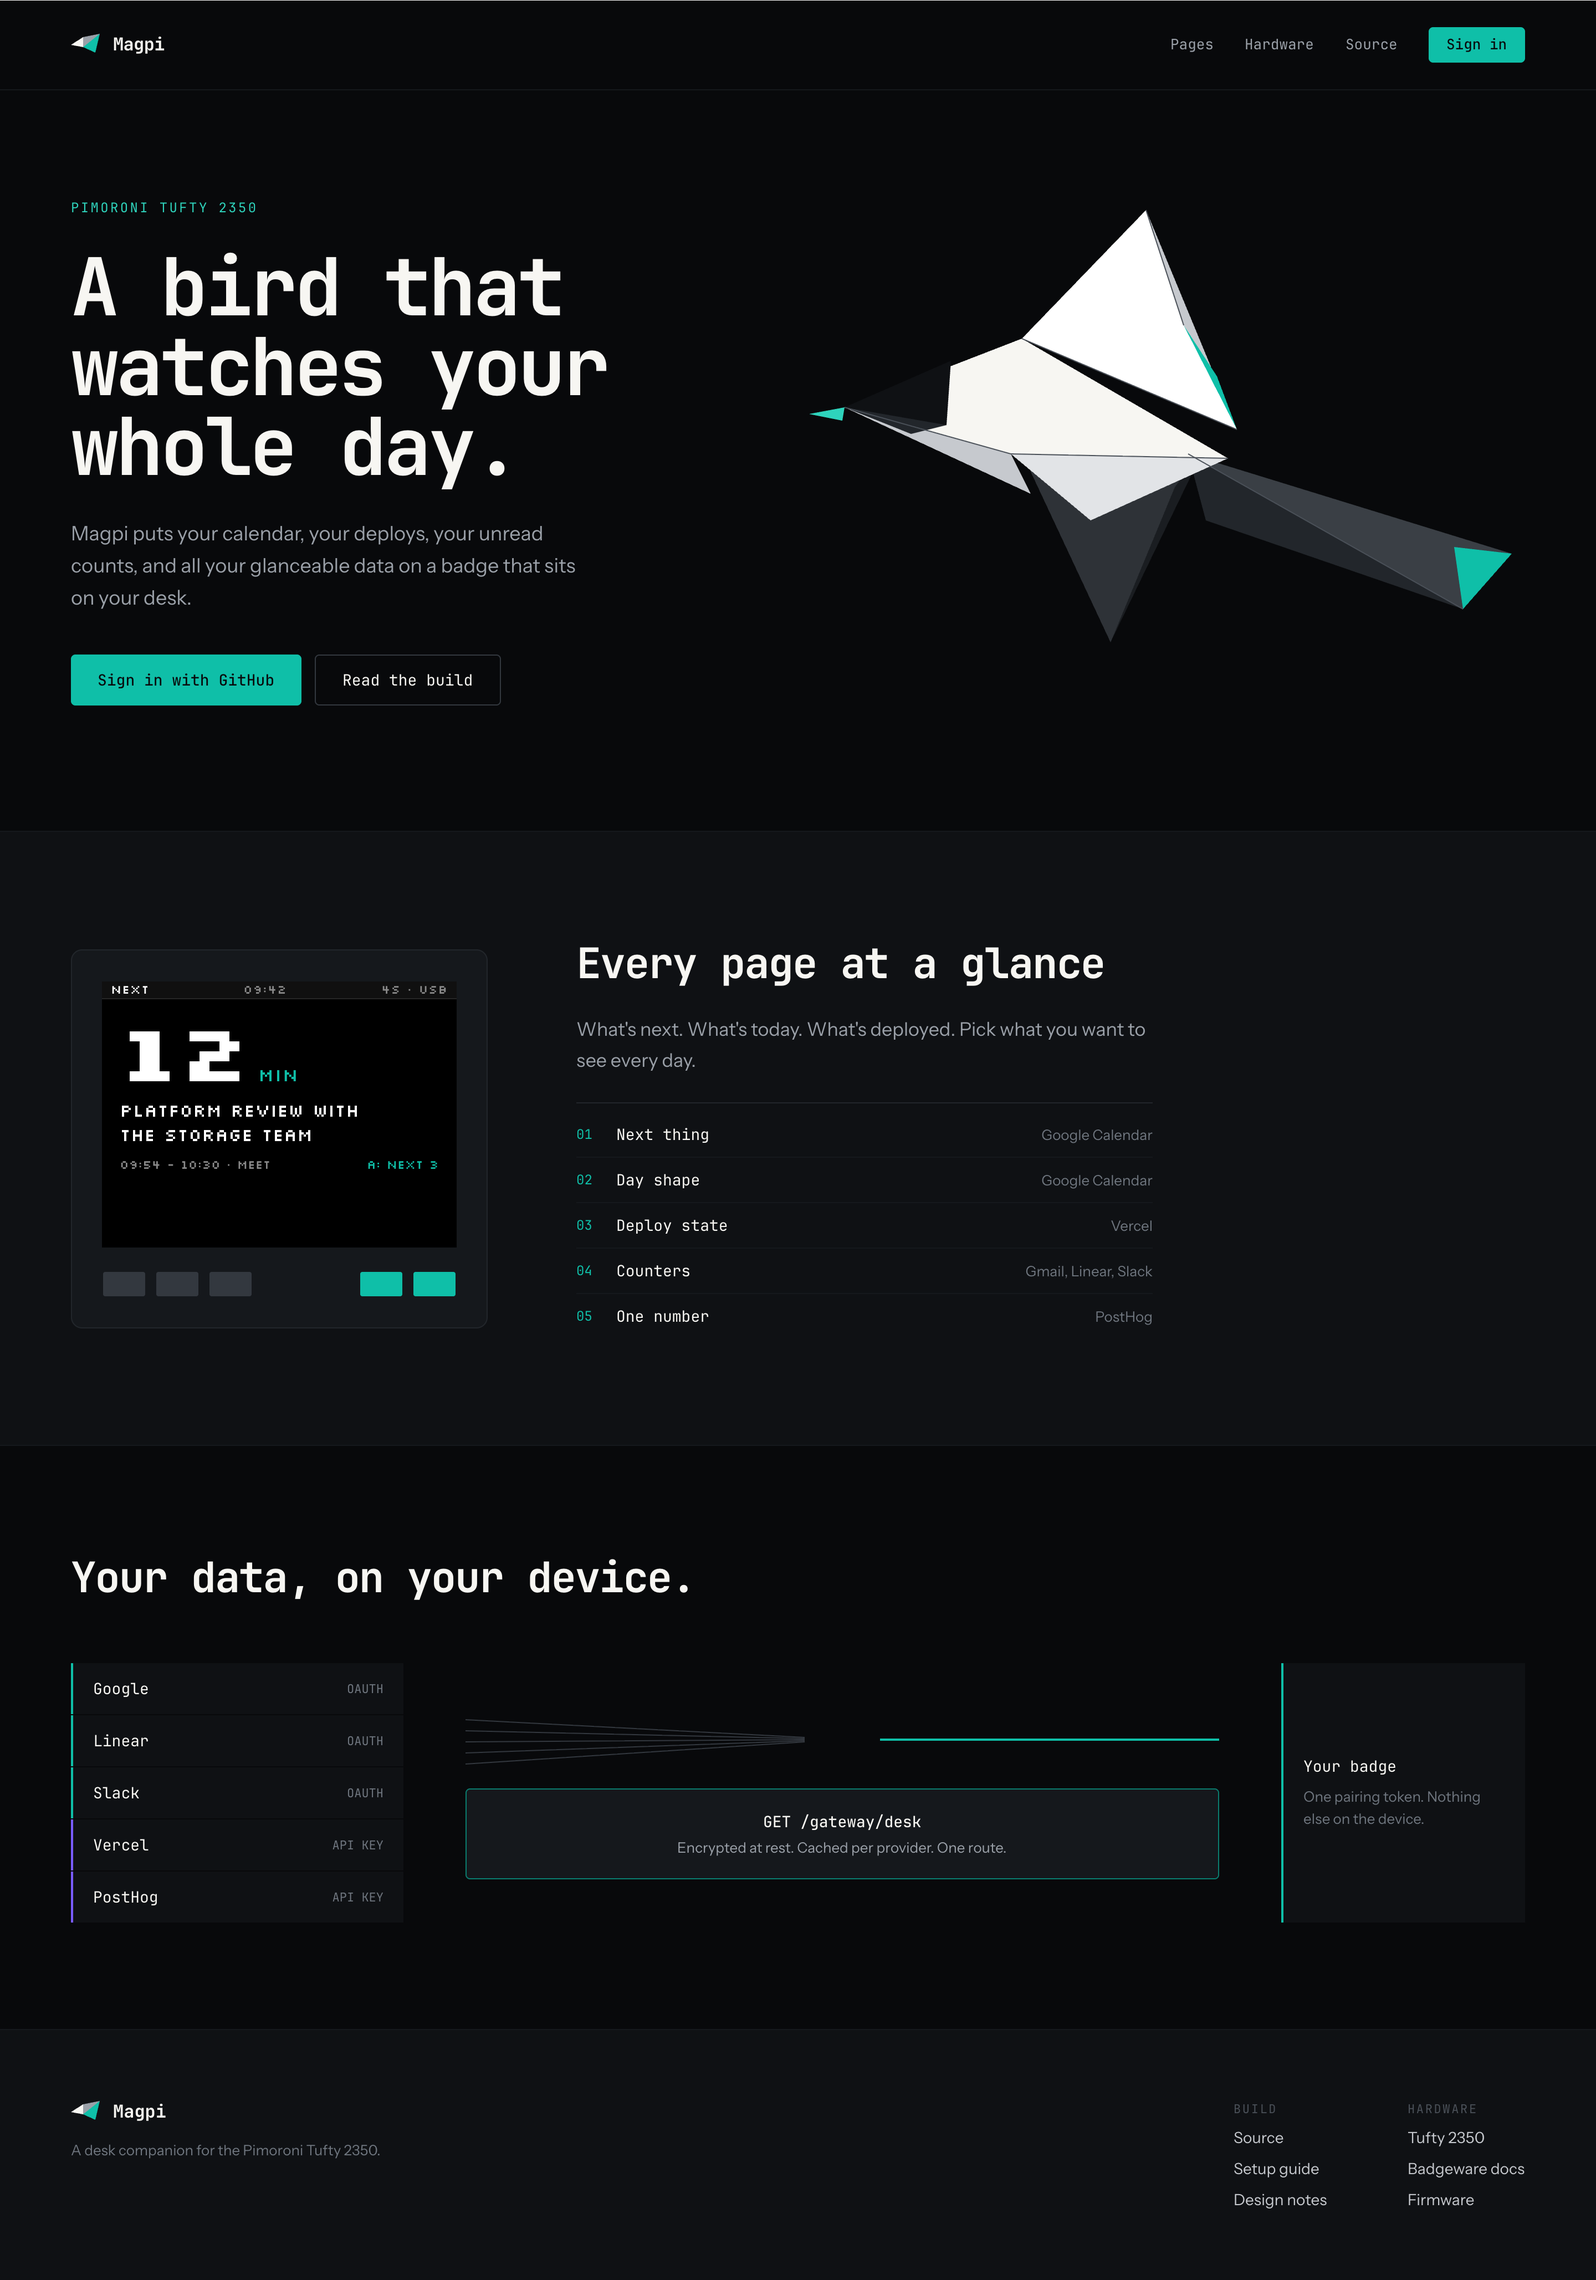
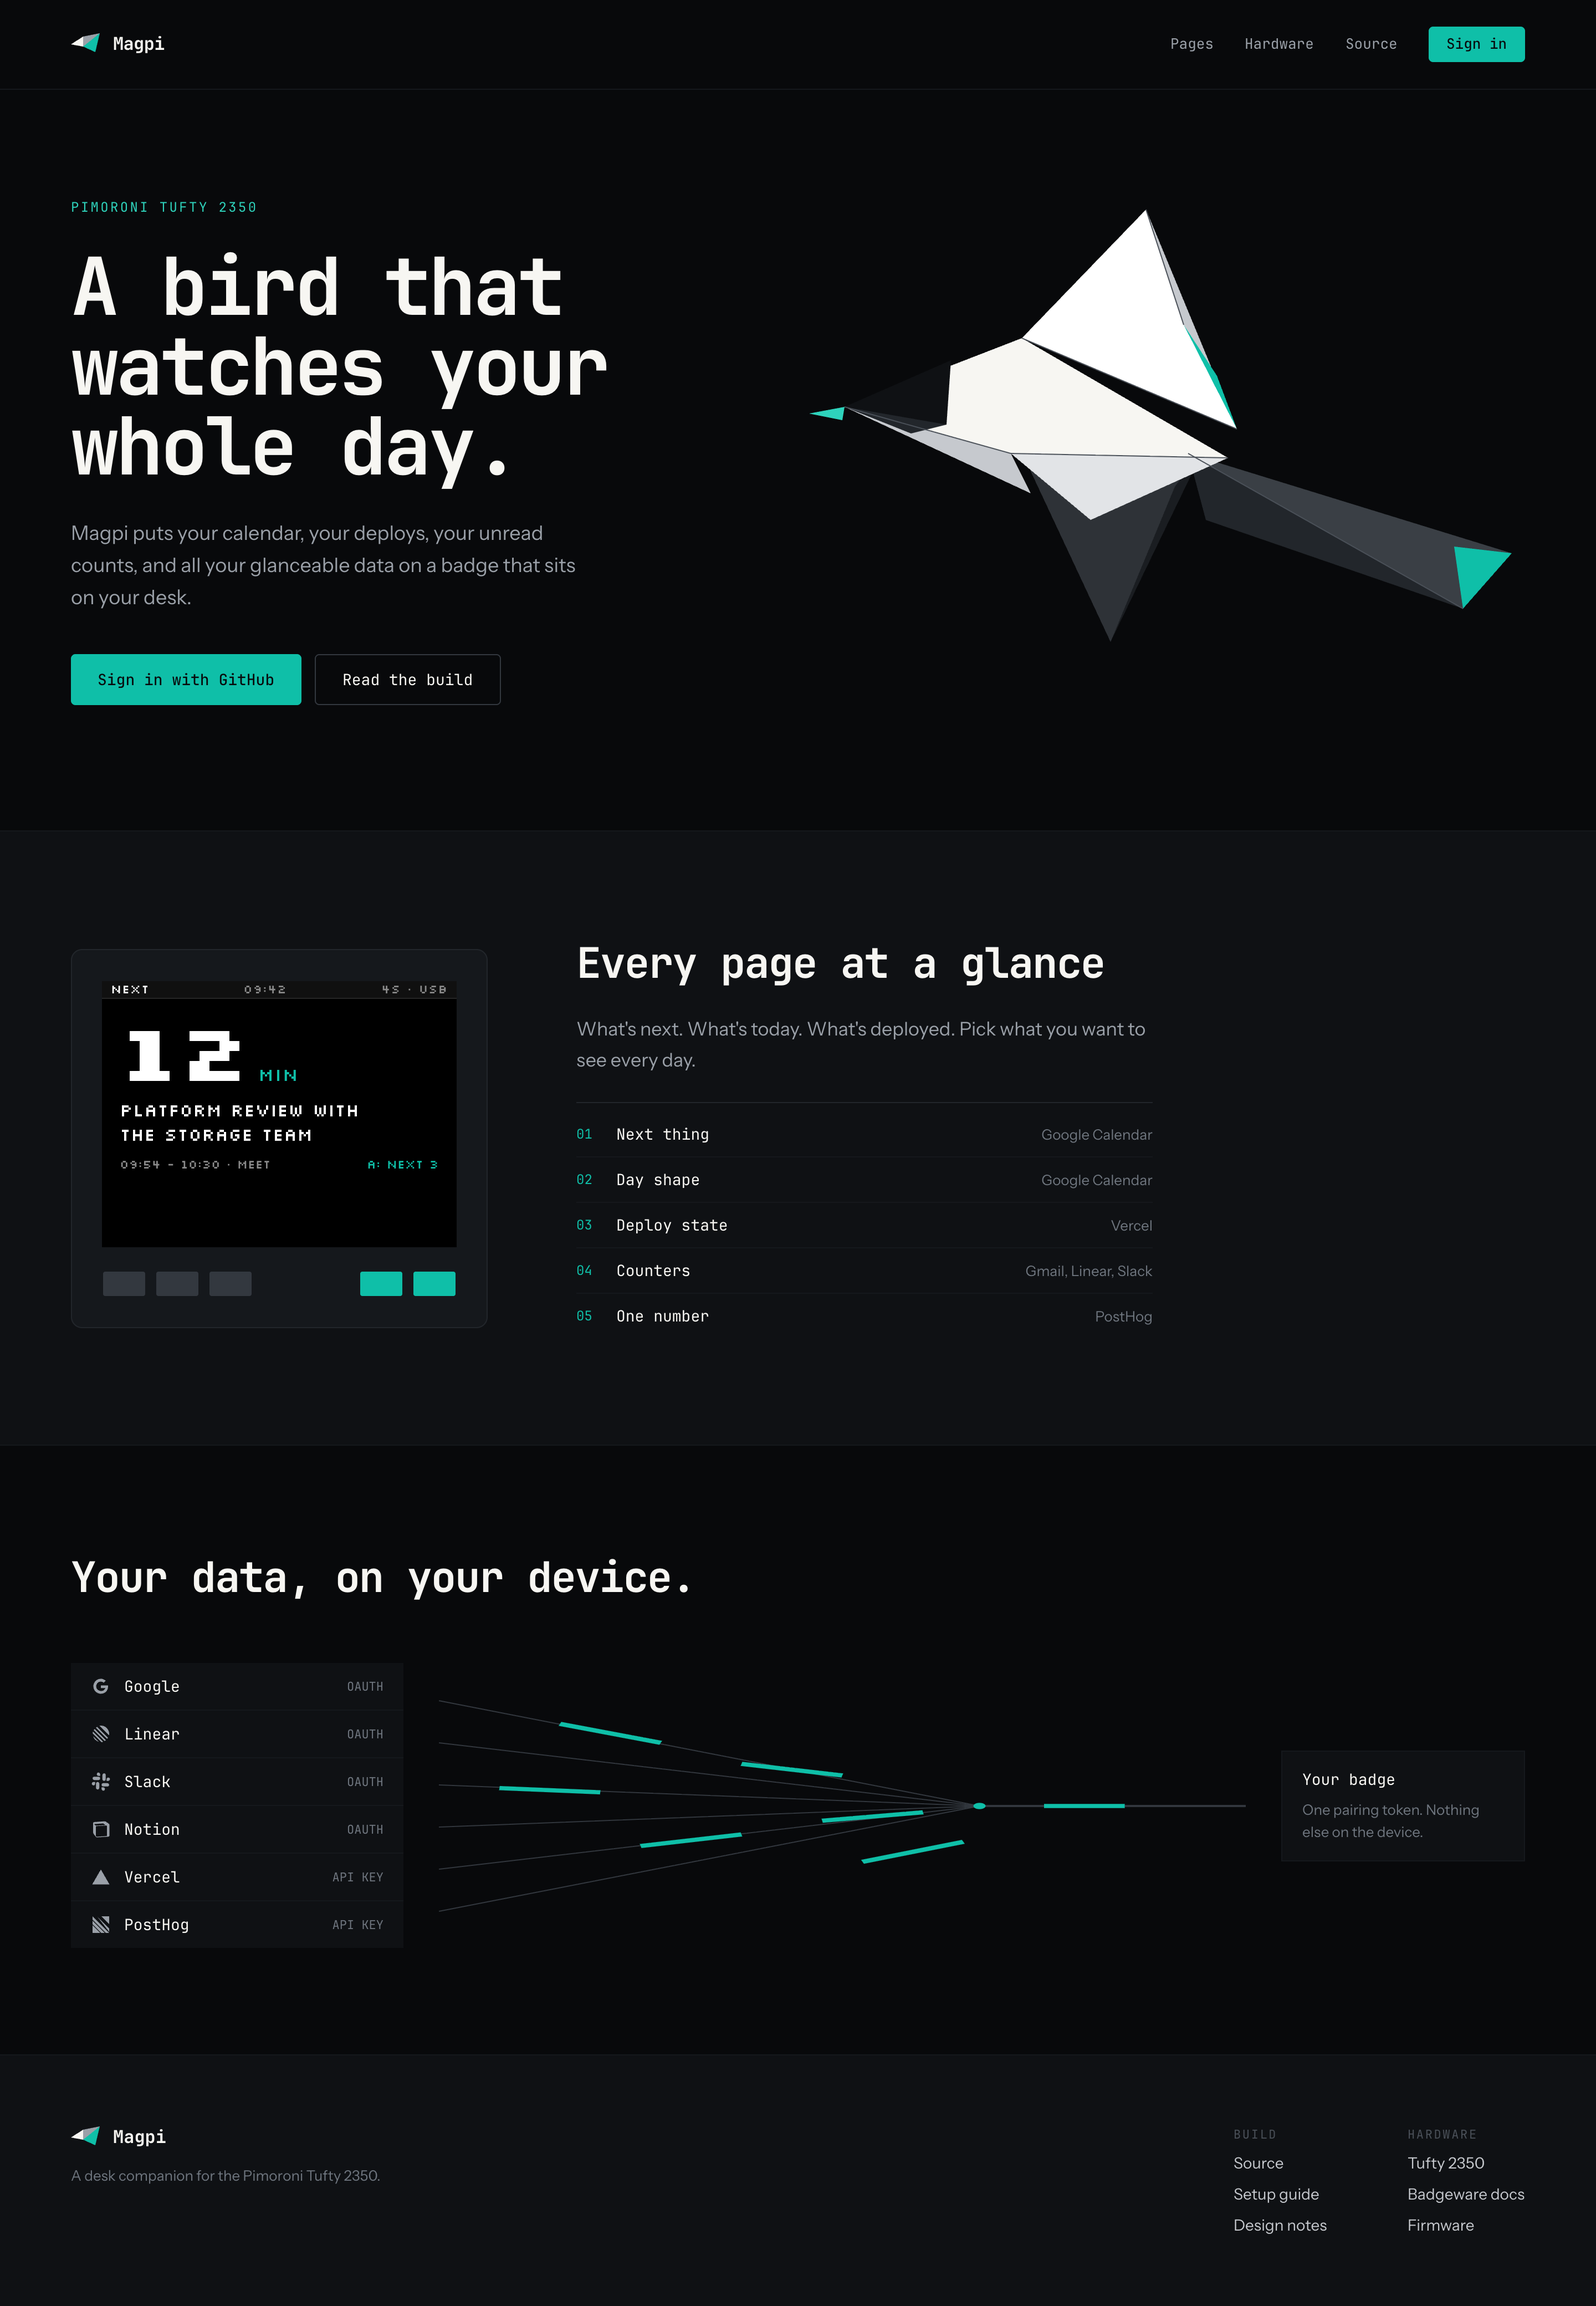
Sync the design file with the shipped homepage
Both artboards lose the route box and the accent bars, gain a mark per
provider and Notion, and show the wires carrying packets. DESIGN.md records
the icon set and the one animated thing in the product.

diff --git a/docs/DESIGN.md b/docs/DESIGN.md
@@ -341,3 +341,47 @@ deliberate here and nowhere else in the product.
 The section kickers were dropped in that pass. The heading carries the section
 on its own, and a small caps label above every one of them was a rhythm the
 page did not need.
+
+## The app icon
+
+`design/app-icon-dark.png` and `design/app-icon-light.png`, 1024 square. The
+same folded magpie as the hero, in the same orientation, with about 14 percent
+padding. Not a new mark: the icon on a browser tab, the one on an OAuth consent
+screen, and the bird on the homepage are one bird.
+
+`web/app/icon.svg` is the favicon. It inlines its hex values rather than reading
+tokens, because a favicon is fetched without the stylesheet and a `var()` there
+renders nothing. `tests/tokens.test.ts` asserts every colour in it is a value
+the primitives file declares, which is what stops it drifting.
+
+`scripts/gen-icons.py` renders the rasters from the same geometry:
+
+| File                              | Size | For                       |
+| --------------------------------- | ---- | ------------------------- |
+| `web/public/icon-32.png`          | 32   | Browser tab fallback      |
+| `web/public/apple-touch-icon.png` | 180  | iOS home screen           |
+| `web/public/icon-192.png`         | 192  | Android home screen       |
+| `web/public/icon-512.png`         | 512  | Install prompt            |
+| `design/oauth-logo-120.png`       | 120  | The OAuth consent screens |
+
+## Motion on the homepage
+
+The gateway section carries a packet along each provider's wire.
+
+A dash rather than a glow or a pulse, because a poll is a discrete thing
+arriving somewhere rather than a signal humming. Timing is linear, since a
+packet does not accelerate, and the lanes are staggered across one full trip so
+the six never beat together and turn into a metronome. `--duration-wire` is
+2600ms.
+
+Each lane leaves level with its provider row, so a wire looks attached to the
+thing it carries. The packet stroke is 4px against a 1px wire because
+`preserveAspectRatio` is off and a near-horizontal stroke is squashed by the
+vertical scale.
+
+`prefers-reduced-motion` stops all of it and the wires stay drawn, so the
+diagram still says what connects to what.
+
+This is the one animated thing in the product. The rule that a number from real
+data never animates is unchanged: the badge previews and every panel in the app
+are still.
